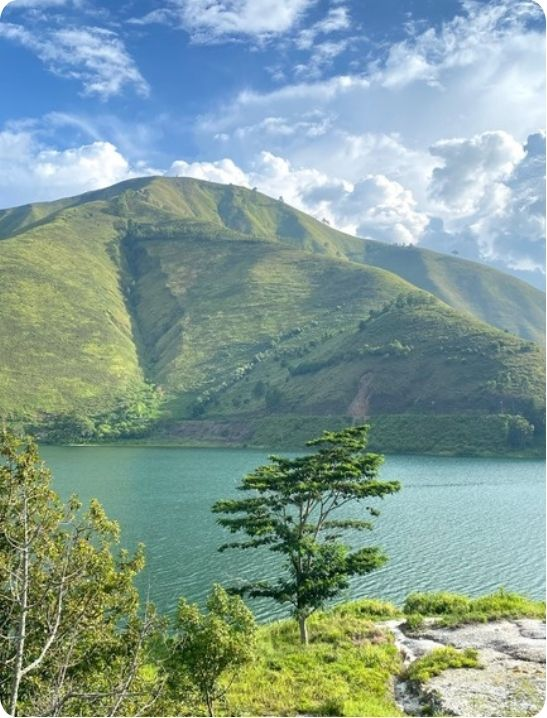
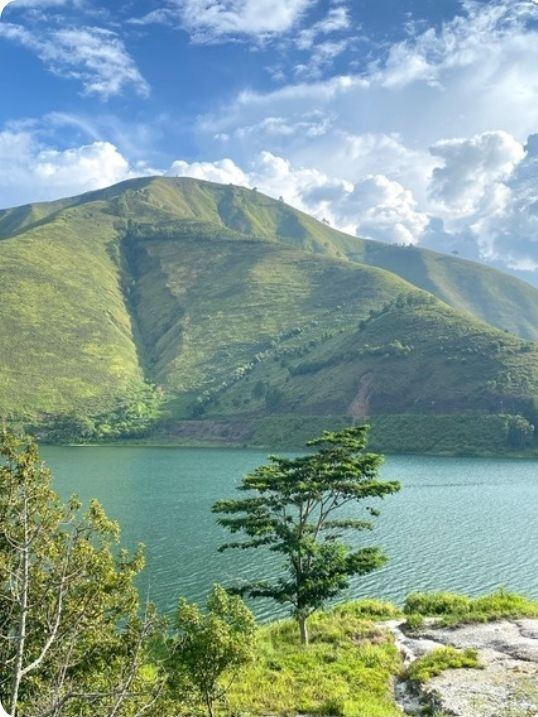
Update 0.3.1 fix slide images having white streaks

diff --git a/assets/css/main.css b/assets/css/main.css
@@ -229,15 +229,18 @@ h3 {
   position: relative;
   border-radius: var(--radius-lg);
   overflow: hidden;
-  aspect-ratio: 4 / 4.6;
+  aspect-ratio: 3 / 4;
+  line-height: 0;
   box-shadow: 0 10px 30px rgba(15, 42, 74, 0.08);
 }
 
 .destination-card img {
   width: 100%;
   height: 100%;
-  object-fit: cover;
   display: block;
+  margin: 0;
+  padding: 0;
+  object-fit: cover;
   transition: transform 0.5s ease;
 }
 
